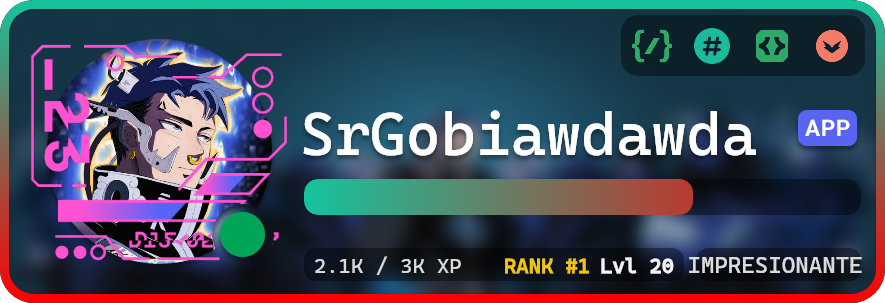
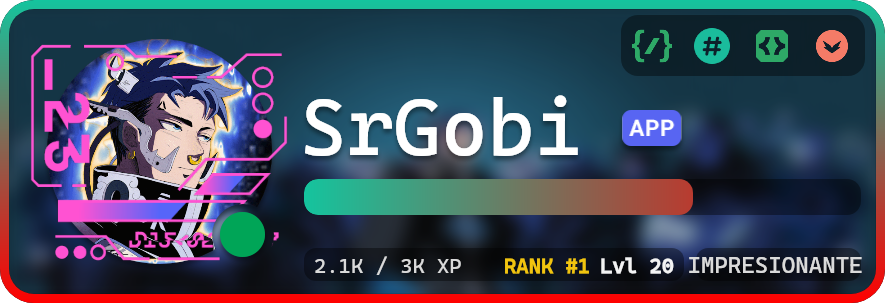
feat: Refactorizar nombre global en index.js

Changed region(s): [[0.3356, 0.297, 0.8542, 0.5347], [0.8847, 0.3564, 0.9763, 0.505]]

diff --git a/index.js b/index.js
@@ -15,7 +15,7 @@ const data = {
 	flags: 4194432,
 	banner:null,
 	accent_color: 3046143,
-	global_name: 'SrGobiawdawdawd',
+	global_name: 'SrGobi',
 	avatar_decoration_data: {
 		asset: 'a_fed43ab12698df65902ba06727e20c0e',
 		sku_id: '1144058844004233369',
